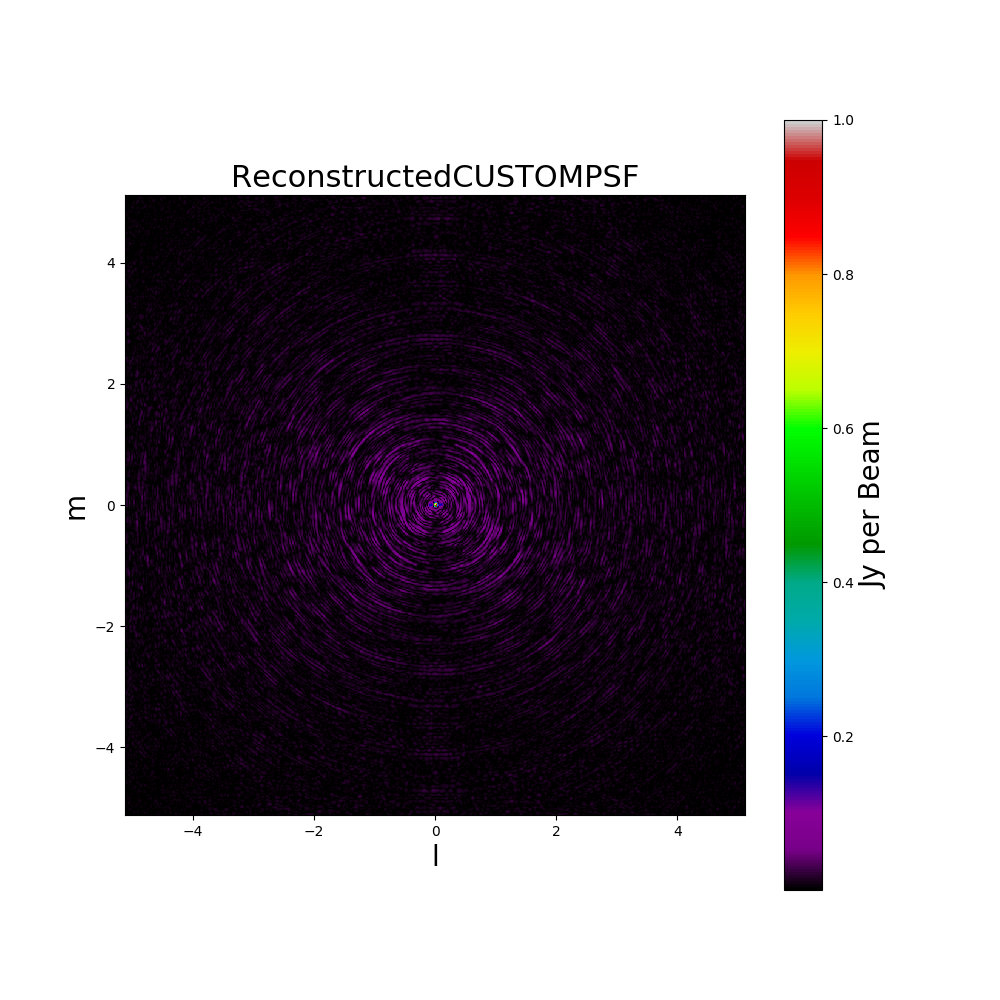
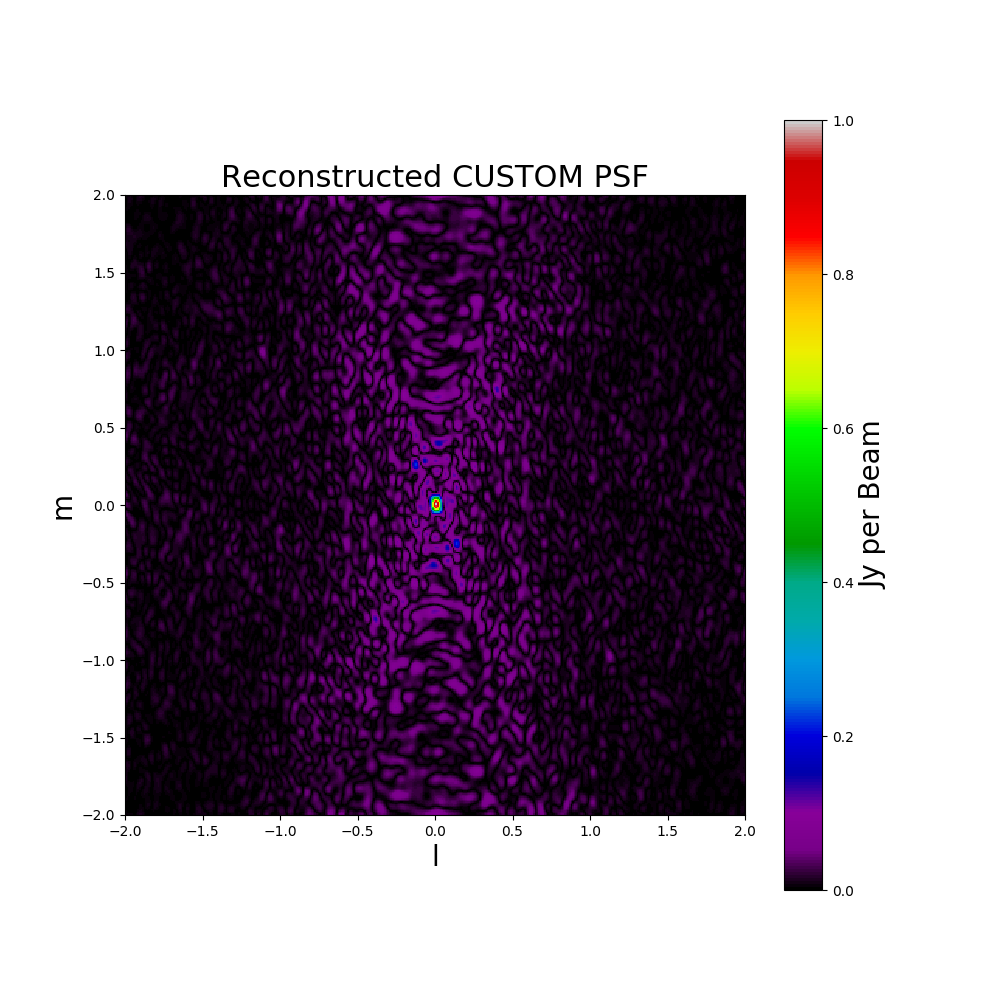
added new images to the report

diff --git a/Sky_Models/4-point.lsm.html b/Sky_Models/4-point.lsm.html
@@ -2,14 +2,14 @@
 <meta http-equiv="content-type" content="text/html; charset=windows-1252"></head><body mdltype="SkyModel">
 <h1>Source list</h1>
 <table frame="box" rules="all" cellpadding="5" border="1">
-<tbody><tr mdltype="Source"><td mdltype="str" mdlval="'1'"><a>name:1</a> </td> <td mdltype="Position"><a mdltype="float" mdlval="4.9793225450667888"></a><a>ra:4.97932254507</a>  <a mdltype="float" mdlval="-1.3155380451812768"></a><a>dec:-1.31553804518</a>  </td> <td mdltype="Polarization"><a mdltype="float" mdlval="0.19389999999999999"></a><a>I:0.1939</a>  <a mdltype="int" mdlval="0"></a><a>Q:0</a>  <a mdltype="int" mdlval="0"></a><a>U:0</a>  <a mdltype="int" mdlval="0"></a><a>V:0</a>  </td> <td mdltype="float" mdlattr="r" mdlval="0.015129586926423459"><a>r:0.0151295869264</a> </td> </tr>
+<tbody><tr mdltype="Source"><td mdltype="str" mdlval="'1'"><a>name:1</a> </td> <td mdltype="Position"><a mdltype="float" mdlval="4.9793225450667888"></a><a>ra:4.97932254507</a>  <a mdltype="float" mdlval="-1.3155380451812768"></a><a>dec:-1.31553804518</a>  </td> <td mdltype="Polarization"><a mdltype="float" mdlval="1"></a><a>I:1</a>  <a mdltype="int" mdlval="0"></a><a>Q:0</a>  <a mdltype="int" mdlval="0"></a><a>U:0</a>  <a mdltype="int" mdlval="0"></a><a>V:0</a>  </td> <td mdltype="float" mdlattr="r" mdlval="0.015129586926423459"><a>r:0.0151295869264</a> </td> </tr>
 
 
 <tr mdltype="Source"><td mdltype="str" mdlval="'2'"><a>name:2</a> </td> <td mdltype="Position"><a mdltype="float" mdlval="5.1"></a><a>ra:5.1</a>  <a mdltype="float" mdlval="1.3843495150486313"></a><a>dec:1.38434951505</a>  </td> <td mdltype="Polarization"><a mdltype="float" mdlval="0.760199999999999997"></a><a>I:0.7602</a>  <a mdltype="int" mdlval="0"></a><a>Q:0</a>  <a mdltype="int" mdlval="0"></a><a>U:0</a>  <a mdltype="int" mdlval="0"></a><a>V:0</a>  </td> <td mdltype="float" mdlattr="r" mdlval="0.011050735118466508"><a>r:0.0110507351185</a> </td> </tr>
 
 <tr mdltype="Source"><td mdltype="str" mdlval="'3'"><a>name:3</a> </td> <td mdltype="Position"><a mdltype="float" mdlval="4.9510780554060861"></a><a>ra:4.95107805541</a>  <a mdltype="float" mdlval="-1.3843495150486313"></a><a>dec:-1.38434951505</a>  </td> <td mdltype="Polarization"><a mdltype="float" mdlval="0.5"></a><a>I:0.5</a>  <a mdltype="int" mdlval="0"></a><a>Q:0</a>  <a mdltype="int" mdlval="0"></a><a>U:0</a>  <a mdltype="int" mdlval="0"></a><a>V:0</a>  </td> <td mdltype="float" mdlattr="r" mdlval="0.011050735118466508"><a>r:0.0110507351185</a> </td> </tr>
 
-<tr mdltype="Source"><td mdltype="str" mdlval="'4'"><a>name:4</a> </td> <td mdltype="Position"><a mdltype="float" mdlval="4.9510780554060861"></a><a>ra:4.95107805541</a>  <a mdltype="float" mdlval="-0.3843495150486313"></a><a>dec:-0.38434951505</a>  </td> <td mdltype="Polarization"><a mdltype="float" mdlval="1"></a><a>I:1</a>  <a mdltype="int" mdlval="0"></a><a>Q:0</a>  <a mdltype="int" mdlval="0"></a><a>U:0</a>  <a mdltype="int" mdlval="0"></a><a>V:0</a>  </td> <td mdltype="float" mdlattr="r" mdlval="0.011050735118466508"><a>r:0.0110507351185</a> </td> </tr>
+<tr mdltype="Source"><td mdltype="str" mdlval="'4'"><a>name:4</a> </td> <td mdltype="Position"><a mdltype="float" mdlval="4.9510780554060861"></a><a>ra:4.95107805541</a>  <a mdltype="float" mdlval="-0.3843495150486313"></a><a>dec:-0.38434951505</a>  </td> <td mdltype="Polarization"><a mdltype="float" mdlval="0.19389999999999999"></a><a>I:0.19389999999999999</a>  <a mdltype="int" mdlval="0"></a><a>Q:0</a>  <a mdltype="int" mdlval="0"></a><a>U:0</a>  <a mdltype="int" mdlval="0"></a><a>V:0</a>  </td> <td mdltype="float" mdlattr="r" mdlval="0.011050735118466508"><a>r:0.0110507351185</a> </td> </tr>
 
 </tbody></table>
 <h1>Plot styles</h1>
@@ -21,7 +21,7 @@
  </tbody></table>
 
 <h1>Other properties</h1>
-<p><a mdltype="float" mdlattr="ra0" mdlval="5.025539028"></a><a>Field centre ra: 5.025539028</a>  <a mdltype="float" mdlattr="dec0" mdlval="0.55"></a><a>dec: 0</a>  </p>
+<p><a mdltype="float" mdlattr="ra0" mdlval="5.025539028"></a><a>Field centre ra: 5.025539028</a>  <a mdltype="float" mdlattr="dec0" mdlval="0.28"></a><a>dec: 0.28</a>  </p>
 <p><a mdltype="str" mdlattr="ASCII_Format" mdlval="'name ra_h ra_m ra_s dec_d dec_m dec_s i'"></a><a>ASCII_Format:name ra_h ra_m ra_s dec_d dec_m dec_s i</a>  </p>
 
 </body></html>

diff --git a/Report/sections/results.tex b/Report/sections/results.tex
@@ -1,54 +1,70 @@
 % Example results
 \subsection{Simulation Outline}
-The simulation results are images that were created using a specific interferometer layout and a specific sky model. The sky model that was used for the following results was a sky model with 4 points, each of which having a different brightness, or flux. The sky model can be seen below. 
-\begin{center}
+The simulation results are images that were created using a specific interferometer layout and a specific sky model. The sky model that was used for the following results was a sky model with 4 points, each of which having a different brightness, or flux. The sky model can be seen in figure \ref{fig:Sky_model}.
+\begin{figure}[H]
+    \centering
     \includegraphics[scale=0.4]{images/4_POINT.png}
+    \caption{Sky model for simulation}
+    \label{fig:Sky_model}
+\end{figure}
+\begin{center}
 \end{center}
 The sky model has a distinctive shape to it, the results from each interferomter should have this shape with a point spread function creating some noise around every point source. \\
-Before the results are shown, the point spread functions for KAT 7, HERA 19 and TART will be displayed. These are the interferomters that were used to display the results, the TART interferometer here is a antenna layout that was created from TART's actual layout, it is simple treated here as a tracking array, while in reality it is in fact, not a tracking array.
-\begin{figure}[htp]
+Before the results are shown, the point spread functions for KAT-7, HERA-19 and TART will be displayed. These are the interferomters that were used to display the results, the TART interferometer here is a antenna layout that was created from TART's actual layout, it is simple treated here as a tracking array, while in reality it is in fact, not a tracking array.
+\begin{figure}[H]
   \centering
   \begin{subfigure}[b]{0.3\textwidth}
     \includegraphics[width=\textwidth]{images/KAT_7_PSF.png}
-    \caption{KAT 7 PSF}
+    \caption{KAT-7 PSF}
     \label{fig:1}
   \end{subfigure}
   %
   \begin{subfigure}[b]{0.3\textwidth}
     \includegraphics[width=\textwidth]{images/HERA_19_PSF.png}
-    \caption{HERA 19 PSF}
+    \caption{HERA-19 PSF}
     \label{fig:2}
   \end{subfigure}
   %
   \begin{subfigure}[b]{0.3\textwidth}
     \includegraphics[width=\textwidth]{images/TART_PSF.png}
-    \caption{TART PSF}
+    \caption{TART-PSF}
     \label{fig:2}
   \end{subfigure}
+  \caption{Interferometer PSF's}
 \end{figure}
 \subsection{Simulation Results}
-Below is a reconstruction from KAT 7 for this sky model using a cell size of $0.01^\circ$ and a resolution of $10^\circ$. 
-\begin{center}
+\begin{figure}[H]
+    \centering
     \includegraphics[scale=0.4]{images/RECON_KAT_7_4_POINT.png}
-\end{center}
-In this image it can be seen that the brighter sources are easily visible, but the one source that was not as bright is not nearly as visible.  The shape is correct and it can clearly be seen that the point spread function has introduced noise to the image and that it matches the point spread function that was introduced earlier in this section.\\
-Below is a reconstruction from KAT 7 for this sky model using a cell size of $0.01^\circ$ and a resolution of $3^\circ$. 
-\begin{center}
+    \caption{A reconstruction from KAT-7 for this sky model using a cell size of $0.01^\circ$ and a resolution of $4^\circ$.}
+    \label{fig:kat-7_recon}
+\end{figure}
+In figure \ref{fig:kat-7_recon} it can be seen that the brighter sources are easily visible, but the one source that was not as bright is not nearly as visible.  The shape is correct and it can clearly be seen that the point spread function has introduced noise to the image and that it matches the point spread function that was introduced earlier in this section.\\
+\begin{figure}[H]
+    \centering
     \includegraphics[scale=0.4]{images/RECON_KAT_7_4_POINT_ALIASING.png}
-\end{center}
-In this image the source at the top appears to be in the wrong location, this is due to aliasing as the resolution was not correctly selected. It is important to remember to follow the Nyquist Theorem that is outlined in section 2.4.1.
+    \caption{A reconstruction from KAT-7 for this sky model using a cell size of $0.01^\circ$ and a resolution of $3^\circ$.}
+    \label{fig:kat-7_recon_alias}
+\end{figure}
+In figure \ref{fig:kat-7_recon_alias} the two sources at the top appear to be in the wrong location, this is due to aliasing as the resolution was not correctly selected. It is important to remember to follow the Nyquist Theorem that is outlined in section 2.4.1.
 
-Below is a reconstruction from HERA 19 for the sky model using a cell size of $0.01^\circ$ and a resolution of $10^\circ$. 
-\begin{center}
+\begin{figure}[H]
+    \centering
     \includegraphics[scale=0.4]{images/RECON_HERA_19_4_POINT.png}
-\end{center}
-As with the KAT 7 image, the bright sources are easily visible while the one less bright source is hard to identify. The point spread function has introduced noise to the image around the sources and it is clear that it is the same point spread function that was shown earlier in this section.
+    \caption{Below is a reconstruction from HERA-19 for the sky model using a cell size of $0.01^\circ$ and a resolution of $4^\circ$.}
+    \label{fig:hera-19_recon}
+\end{figure}
 
-Below is a reconstruction from TART for the sky model using a cell size of $0.01^\circ$ and a resolution of $10^\circ$. 
-\begin{center}
+As with the KAT 7 image, in fig\ref{fig:hera-19_recon} the bright sources are easily visible while the one less bright source is hard to identify. The point spread function has introduced noise to the image around the sources and it is clear that it is the same point spread function that was shown earlier in this section.
+
+\begin{figure}[H]
+    \centering
     \includegraphics[scale=0.4]{images/RECON_TART_4_POINT.png}
-\end{center}
-It is instantly clear that the points are not at all visible in this reconstruction, this is because TART is not nearly as powerful as KAT 7 or HERA 19, it is also due to the very small hour angle that was given to TART for this simulation.
+    \caption{Below is a reconstruction from TART for the sky model using a cell size of $0.01^\circ$ and a resolution of $4^\circ$.}
+    \label{fig:TART_recon}
+\end{figure}
+
+In figure \ref{fig:TART_recon} It is instantly clear that the points are not at all visible in this reconstruction, this is because TART is not nearly as powerful as KAT-7 or HERA-19, it is also due to the very small hour angle that was given to TART for this simulation.
 
 \subsection{TART Images}
 

diff --git a/Report/sections/designAndImlmplementation.tex b/Report/sections/designAndImlmplementation.tex
@@ -59,4 +59,9 @@ The pipeline is where CherryPy interfaces with python. It contains two main func
 The TART image generation function takes the cell size, resolution and which TART interferometer the user would like to use as input. It then generates the image above the specified TART interferomter at that time.
 
 \subsection{Technologies}
-The back end is python, implementing libraries found with pip. The front end is a CherryPy web server\cite{Cherrypy} that calls the back end functions and displays the images and plots that are created. The html page that displays the images uses bootstrap\cite{Bootstrap} in order to display the images nicely depending on the layout of the browser.
+The back end is python, implementing libraries found with pip. The front end is a CherryPy web server\cite{Cherrypy} that calls the back end functions and displays the images and plots that are created. The HTML page that displays the images uses bootstrap\cite{Bootstrap} in order to display the images nicely depending on the layout of the browser.
+
+\subsection{Usage}
+Once it has been started, the tool resides on a web page at the IP address 127.0.0.1 with port 8080. On this web page there are two drop down sections, one for TART and one for custom interferometers, the latter is used for testing. Both sections require the cell size field at the top to be filled in.
+\\For TART, all the user needs to do is select the TART location they wish to use and press the button labeled ``Generate new graphs", this will run the pipeline for TART and output the images onto the web page in the TART section. If the user has checked the show grid checkbox there will be a circular grid displayed on the output image for the reconstruction, If not there will be no grid. The grid that is displayed represents the relative declination from the center of the image, each circle represents an increment of 10$^\circ$ in declination, up till 90$^\circ$. 
+\\In the custom interferometer section, the user needs to select a interferometer with the ``Antenna Layout" button, then select a sky model with the ``LSM file" button, the only format that the pipeline current accepts is the tigger sky model format, which uses LSM files. The user must then select which baseline they would like to use, and what resolution they would like the output image to be, both of these are text fields. The user must then click the button labelled ``Generate Custom Graphs" and the testing pipeline will be run and an image will be produced based on the interferometer and sky model chosen. The image may also have a grid if the user has checked the checkbox.

diff --git a/Report/sections/testing.tex b/Report/sections/testing.tex
@@ -1,16 +1,22 @@
 To test the pipeline functionality was implemented that allows the user to select their own interferometer array layout and sky model. The user can then generate an image that that interferometer would see if it were to observe that sky model. If the image comes out similar to the sky model then the user knows the pipeline is working as intended. An example is given below: \\
-Say the user were to select KAT7 as the interferometer and select this sky model: 
-\begin{center}
-    \includegraphics[scale=0.35]{images/SkyModel.png}
-\end{center}
+Say the user were to select KAT-7 as the interferometer and select the sky model in figure \ref{fig:line_model}
+\begin{figure}[H]
+    \centering
+    \includegraphics[scale=0.35]{images/TESTING_KAT7_LINEMODEL_SKY_MODEL.png}
+    \caption{}
+    \label{fig:line_model}
+\end{figure}
 % \begin{figure}[h!]
 %     \centering
 %     \includegraphics[scale=0.35]{images/SkyModel.png}
 % \end{figure}
-The testing framework will generate an image based off the interferometer and sky model, the output of this testing will be:
-\begin{center}
-    \includegraphics[scale=0.35]{images/ReconstructedCUSTOMSkyModel.png}
-\end{center}
+The testing framework will generate an image based off the interferometer and sky model, the output of this testing will be figure \ref{fig:line_model_recon}
+\begin{figure}[H]
+    \centering
+    \includegraphics[scale=0.35]{images/TESTING_KAT7_LINEMODEL_RECON.png}
+    \caption{}
+    \label{fig:line_model_recon}
+\end{figure}
 % \begin{figure}[h!]
 %     \centering
 %     \includegraphics[scale=0.4]{images/ReconstructedCUSTOMSkyModel.png}

diff --git a/Report/sections/FutureWork.tex b/Report/sections/FutureWork.tex
@@ -6,3 +6,5 @@ The TART interferometer needs a step after the imaging process that reduces the 
 \subsection{Transform the pipeline into a teaching tool}
 This will allow the pipeline to teach people who are interested in interferometry about how it all works. 
 The goal is to create a tool that can be used at a university level to teach students about interferometry in a way where they have access to a working interferometer and a pipeline that will explain every step in high detail to the student. Each step will explain the theory behind it and explain the process that was followed in that step to produce the results that are seen. Hopefully this will increase the ease of learning for interferometry and make more people interested in the field.
+\subsection{Convert the data from TART into measurement set format}
+The TART interferometer currently saves files in an HDF format, the goal would be to convert an observation into the measurement set format. This would allow the user to take that data and input it into CASA\cite{CASA}, which would mean that the images from the pipeline can be compared to CASA images. This would allow the teaching tool aspect of the tool to expand even further and teach students better. 

diff --git a/Report/sections/bibliography.tex b/Report/sections/bibliography.tex
@@ -43,7 +43,10 @@ $[$Accessed 16 October 2019$]$
 Fundamentals of Interferometry. [online] Avaivable at\\
 \url{https://github.com/ratt-ru/fundamentals_of_interferometry}
 $[$Accessed 1 March 2019$]$
-
+\bibitem{CASA}
+National Radio Astronomy Observatory [online] Available at\\
+\url{https://casa.nrao.edu/}
+$[$Accessed 24 October 2019$]$
 
 \end{thebibliography}
 

diff --git a/Report/main.tex b/Report/main.tex
@@ -3,7 +3,11 @@
 % \usepackage{float}
 \usepackage[utf8x]{inputenc}
 \usepackage{amsmath}
-\usepackage{subcaption} 
+\usepackage[section]{placeins}
+\usepackage{float}
+\usepackage{subcaption} % ReWrite the sections on mathematical groundwork and Imaging
+
+
 \usepackage{graphicx}
 \usepackage{url}
 \usepackage[colorinlistoftodos]{todonotes}
